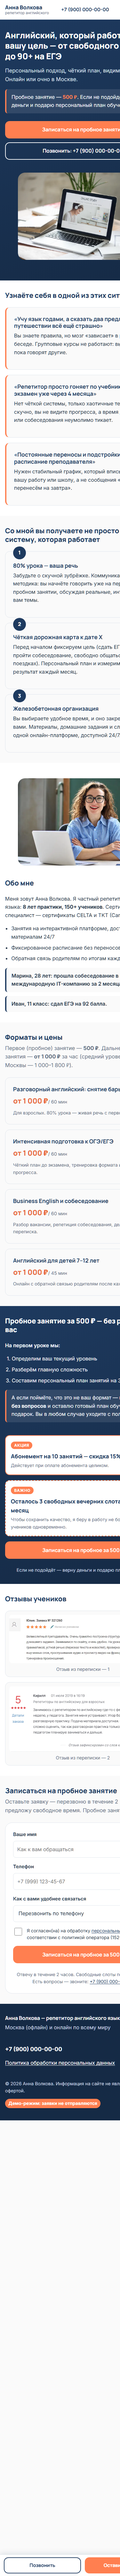
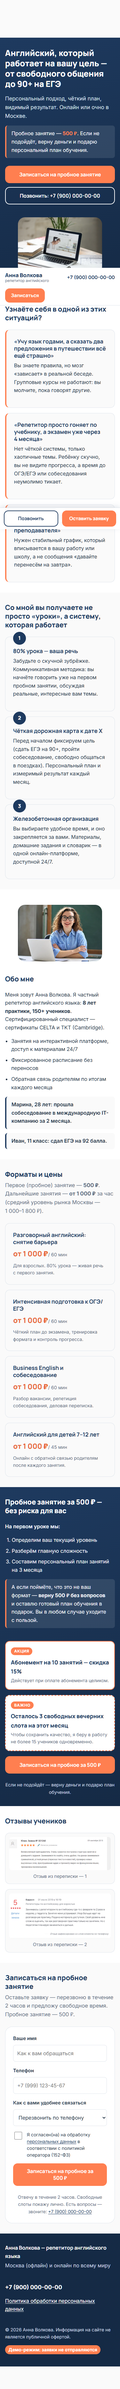
fix: переснять скриншоты без обрезки правого края и пустого низа (+ scripts/screenshot.js)

diff --git a/scripts/screenshot.js b/scripts/screenshot.js
@@ -1,0 +1,71 @@
+const path = require('path');
+const fs = require('fs');
+const puppeteer = require('puppeteer-core');
+
+const ROOT = path.resolve(__dirname, '..');
+const OUT = path.join(ROOT, 'screenshots');
+const CHROME = 'C:\\Program Files\\Google\\Chrome\\Application\\chrome.exe';
+const URL = process.env.SHOT_URL || 'http://127.0.0.1:8099/index.html';
+
+async function shoot(browser, { name, width, height, isMobile }) {
+  const page = await browser.newPage();
+  await page.setViewport({ width, height, deviceScaleFactor: 1, isMobile: !!isMobile });
+  await page.evaluateOnNewDocument(() => {
+    document.addEventListener('DOMContentLoaded', () => {
+      document.querySelectorAll('img[loading="lazy"]').forEach((img) => {
+        img.loading = 'eager';
+      });
+    });
+  });
+  await page.goto(URL, { waitUntil: 'networkidle0', timeout: 60000 });
+  await page.evaluate(async () => {
+    document.querySelectorAll('img[loading="lazy"]').forEach((img) => {
+      img.loading = 'eager';
+    });
+    if (document.fonts) await document.fonts.ready;
+    await Promise.all(
+      Array.from(document.images).map((img) => img.decode().catch(() => {}))
+    );
+    const step = Math.max(window.innerHeight, 400);
+    for (let y = 0; y < document.documentElement.scrollHeight; y += step) {
+      window.scrollTo(0, y);
+      await new Promise((r) => setTimeout(r, 50));
+    }
+    window.scrollTo(0, 0);
+    await new Promise((r) => setTimeout(r, 250));
+  });
+
+  const metrics = await page.evaluate(() => ({
+    scrollWidth: document.documentElement.scrollWidth,
+    clientWidth: document.documentElement.clientWidth,
+    scrollHeight: document.documentElement.scrollHeight,
+    bodyScrollWidth: document.body.scrollWidth,
+  }));
+
+  const file = path.join(OUT, name);
+  await page.screenshot({ path: file, fullPage: true });
+  await page.close();
+
+  const stat = fs.statSync(file);
+  console.log(JSON.stringify({ name, width, height, metrics, bytes: stat.size }, null, 2));
+  return metrics;
+}
+
+(async () => {
+  if (!fs.existsSync(OUT)) fs.mkdirSync(OUT, { recursive: true });
+  const browser = await puppeteer.launch({
+    executablePath: CHROME,
+    headless: 'new',
+    args: ['--no-sandbox', '--hide-scrollbars', '--force-device-scale-factor=1'],
+  });
+  try {
+    const d = await shoot(browser, { name: 'landing-full-desktop.png', width: 1440, height: 900 });
+    const m = await shoot(browser, { name: 'landing-full-mobile.png', width: 375, height: 812, isMobile: true });
+    if (d.scrollWidth > d.clientWidth || m.scrollWidth > m.clientWidth) {
+      console.error('HORIZONTAL OVERFLOW DETECTED');
+      process.exitCode = 2;
+    }
+  } finally {
+    await browser.close();
+  }
+})();
